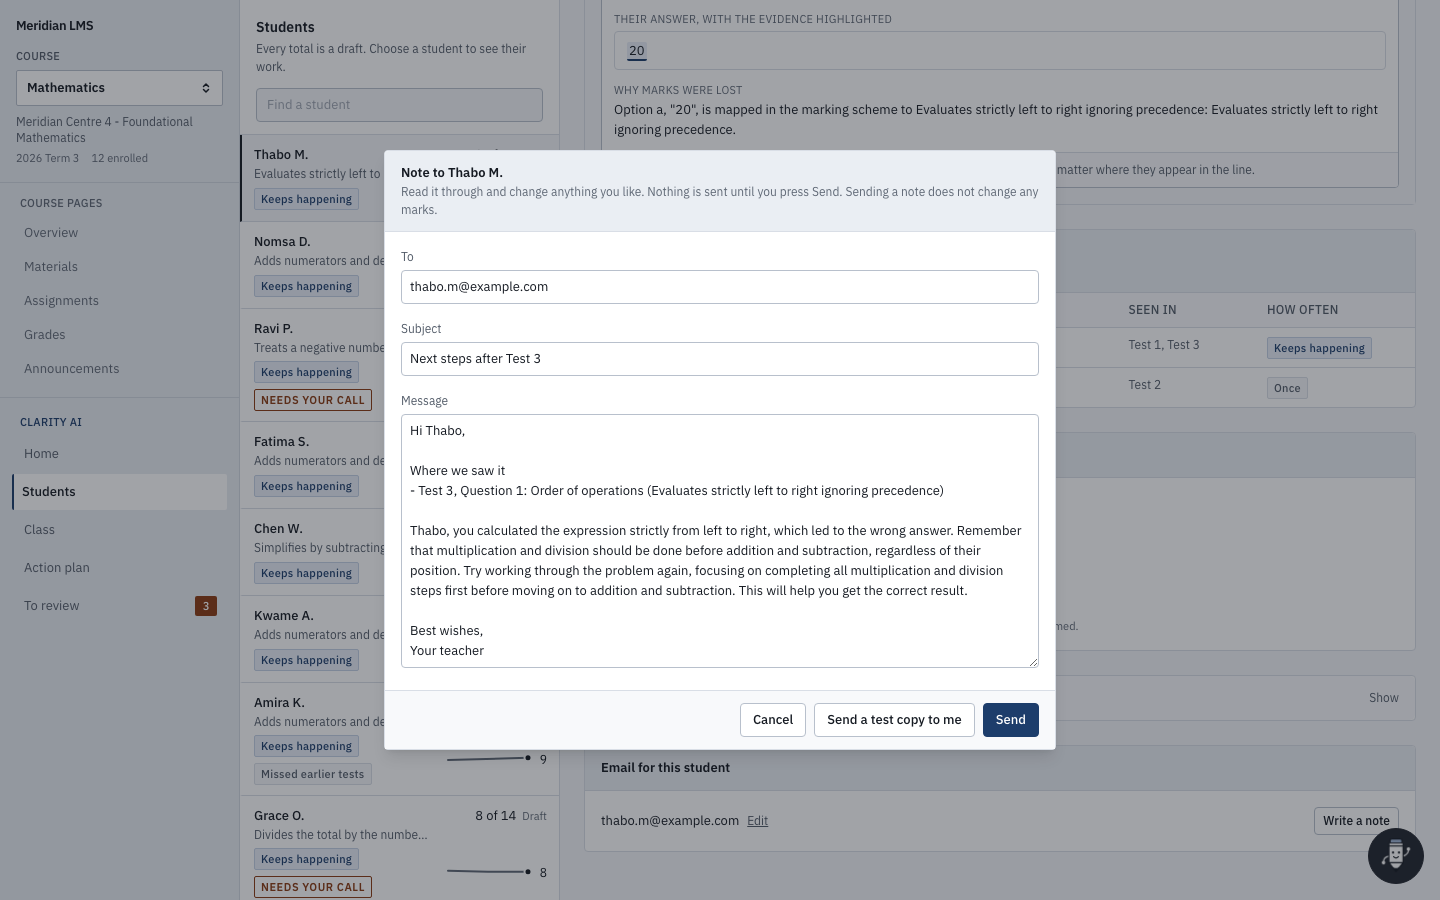
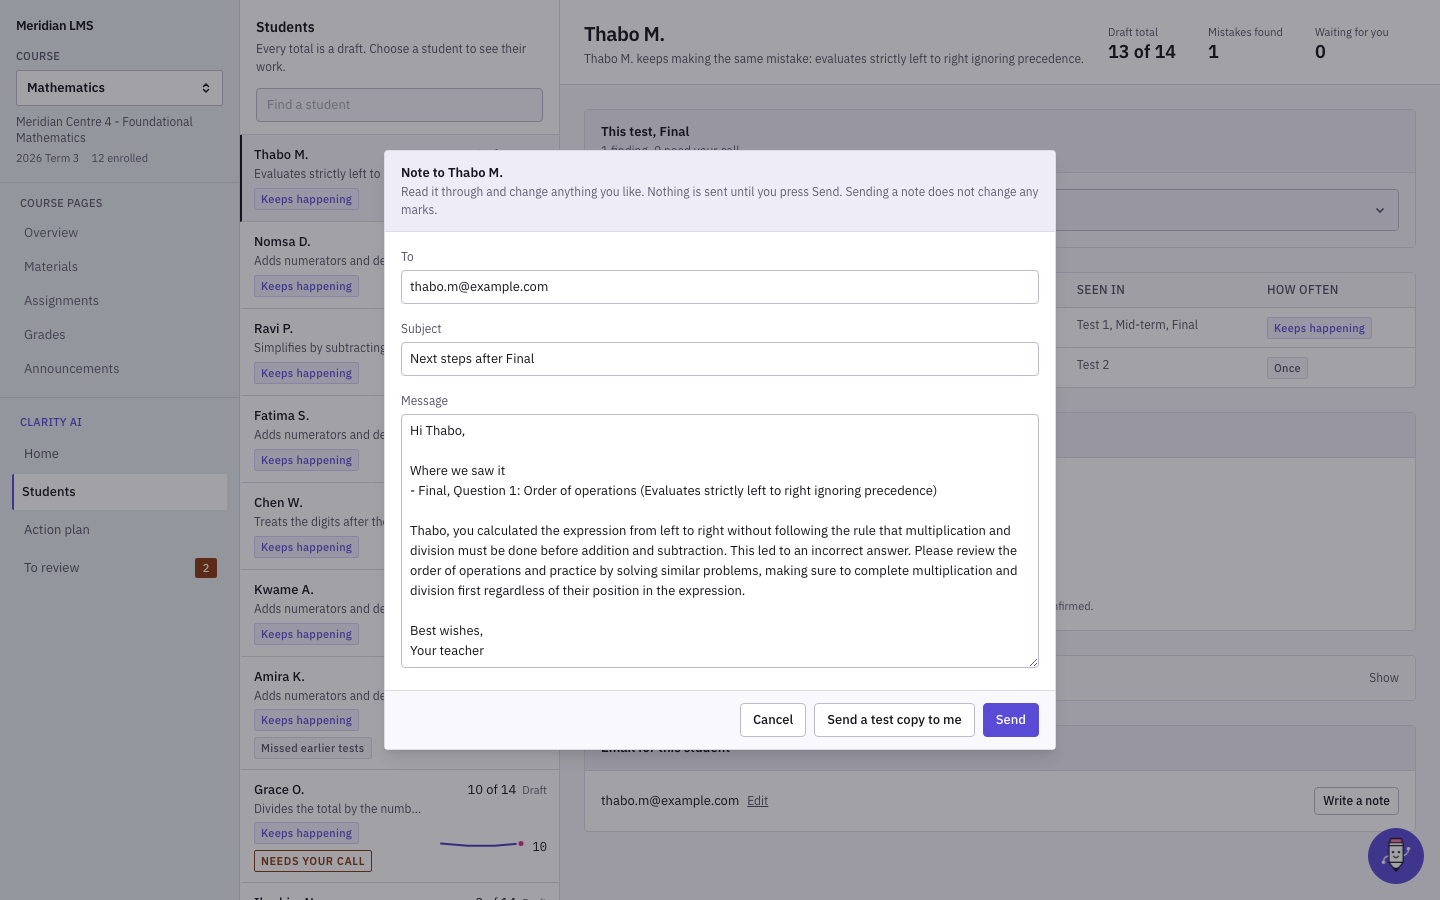
docs: screenshots of the new UI and a frontend section in the architecture
Every README screenshot is re-taken in the violet palette, including the
note and helper shots that still showed the old navy. docs/architecture.md
gains a Frontend section: the four pages and what each answers, the Class
page folded into Home, the correction path from both entry points, and
the colour and motion rules. The README table and captions match the new
Home and review flow. The graph diagram is unchanged and its test passes.

diff --git a/README.md b/README.md
@@ -18,7 +18,7 @@ Client: **Meridian Foundation**. Use case: **Marks and answer-sheet analysis**.
     <td width="33%"><img src="docs/screenshots/email.png" alt="A drafted note to a student, ready to edit and send" /></td>
   </tr>
   <tr>
-    <td align="center"><sub>The whole test at a glance</sub></td>
+    <td align="center"><sub>The whole test at a glance: the whole-class problem, scores and four headline numbers</sub></td>
     <td align="center"><sub>Why a student lost marks, with evidence from their answer</sub></td>
     <td align="center"><sub>A note to the student, drafted and ready to send</sub></td>
   </tr>
@@ -45,10 +45,10 @@ A facilitator uploads a test. Six agents take it from there, and the facilitator
 | **Marks** | Awards draft marks against the marking scheme, each with a confidence | A draft total per student. Clarity AI never sets a final mark |
 | **Diagnoses** | Names the mistake pattern behind each lost mark, out of 24 known ones | The student's own answer, with the words it relied on highlighted |
 | **Remembers** | Tracks each student's mistakes across tests, including students with gaps in their record | "Keeps happening" or "Once", per mistake |
-| **Separates** | Decides whether a mistake belongs to one student or to the whole class (40 percent or more) | A heatmap of the class and the whole-class problems |
+| **Separates** | Decides whether a mistake belongs to one student or to the whole class (40 percent or more) | On Home: the whole-class problem, the most common mistakes and a heatmap of who made which |
 | **Plans** | Decides what to do next and ranks it, most marks lost first | One ordered action plan: re-teach, catch-ups, restart points, pairings |
-| **Escalates** | Hands over anything it should not decide alone, with both readings and what it would have chosen | A "Needs your call" queue with one-click accept or correct |
-| **Re-plans** | When the teacher corrects a finding, re-runs the class analysis and rebuilds the plan | The plan changes in front of them, with each change marked |
+| **Escalates** | Hands over anything it should not decide alone, with both readings and what it would have chosen | A "Needs your call" queue with one-click accept or correct. A decided item ticks and moves to "Already decided" |
+| **Re-plans** | When the teacher corrects a finding, re-runs the class analysis and rebuilds the plan | A tick confirms the correction without leaving the page. The rebuilt plan marks each change |
 | **Writes to students** | Drafts a personal note to each student from their own mistakes | An email the teacher edits and sends from the app |
 
 ## Features we are proudest of
@@ -75,7 +75,7 @@ A facilitator uploads a test. Six agents take it from there, and the facilitator
   </tr>
   <tr>
     <td align="center"><sub>Needs your call: what it was unsure about and why</sub></td>
-    <td align="center"><sub>One student's problem, or the whole class's?</sub></td>
+    <td align="center"><sub>Who made which mistake: one student's problem, or the whole class's?</sub></td>
     <td align="center"><sub>The action plan, most important first</sub></td>
   </tr>
 </table>
@@ -119,7 +119,7 @@ A facilitator uploads a test. Six agents take it from there, and the facilitator
 | Planning | `planner` | Proposes and ranks the actions: re-teach, catch-ups, restart points, pairings, notes | Rule-based plan |
 | Safety check | `reviewer` | Hands the teacher low confidence, two close readings, wording issues and thin records | No model used |
 
-A dead model provider costs quality, never a run. After three failures a circuit breaker switches every agent to the deterministic rules. A run against a dead endpoint still completes in 1.5 seconds with full results. The full graph and state contract are in [`docs/architecture.md`](docs/architecture.md), and a test checks that its diagram matches the code.
+A dead model provider costs quality, never a run. After three failures a circuit breaker switches every agent to the deterministic rules. A run against a dead endpoint still completes in 1.5 seconds with full results. The full graph, the state contract and the frontend pages are in [`docs/architecture.md`](docs/architecture.md), and a test checks that its diagram matches the code.
 
 ## Measured, not claimed
 

diff --git a/docs/architecture.md b/docs/architecture.md
@@ -234,6 +234,48 @@ mathematics the generator used to inject the errors, so a recovery rate measured
 in offline mode is a check that the pipeline is wired correctly, not a
 measurement of model quality.
 
+## Frontend
+
+The UI sits inside a plain, institutional LMS shell (grey sidebar, dark top bar)
+so that the agent's own pages carry the visual weight. There are four pages
+after an analysis, plus the upload flow. The page is kept in the URL hash
+(`src/hooks/useAppView.ts`), and all server state comes through TanStack Query
+and `src/hooks/useSession.tsx`.
+
+| Page | What it answers | Built from |
+|---|---|---|
+| Home | How did the class do, and is a mistake one student's or the teaching's? | Test picker, the whole-class problem with its drafted re-teach, the score histogram beside four headline numbers, the most common mistakes against the 40 percent line, and a heatmap of who made which mistake |
+| Students | Why did this student lose marks, and has it happened before? | Diagnoses with the evidence highlighted inside the answer, mistake history across tests, and the note to the student |
+| Action plan | What should the teacher do next, in what order? | `plan.scheduled` as cards, most important first, and the notes to send |
+| Needs your call | What did the agent refuse to decide alone? | `escalations`, grouped by reason, each showing both readings and what the agent would have chosen |
+
+Home used to share its class view with a separate Class page. That page was
+folded into Home and removed, so the class picture is read in one place.
+
+### The correction path in the UI
+
+A correction can start from a heatmap square on Home or from an item in Needs
+your call. Both open the same dialog (`src/components/OverrideDialog.tsx`), which
+calls `/api/batch/{id}/override`. The server re-enters the graph at
+`cohort_analyst` (see the re-plan graph above). When the correction came from the
+review queue, the session also resolves that escalation with the teacher's
+reason, so the item leaves the queue and is listed as Corrected. The teacher
+stays on the page they corrected from. A tick confirms the save and the dialog
+closes itself. The rebuilt plan is waiting on the Action plan page, with each
+change marked.
+
+### Colour and motion
+
+One accent, a violet built on `#6c5ce7`, marks agent activity and decisions. A
+rust accent marks anything handed to the teacher. Charts use the same violet
+family plus one pink for "look at this": a whole-class mistake, or a mistake
+that keeps happening. The tokens live in `frontend/tailwind.config.js`. Charts
+animate in with CSS keyframes from `src/index.css`: bars grow, lines draw,
+headline numbers count up. Decisions in the review queue show a tick and fold
+away, and a sent note flies off. A note that was only saved settles into an
+outbox instead, so the animation never claims a delivery that did not happen.
+All motion is switched off under `prefers-reduced-motion`.
+
 ## Stack
 
 | Layer | Choice |
